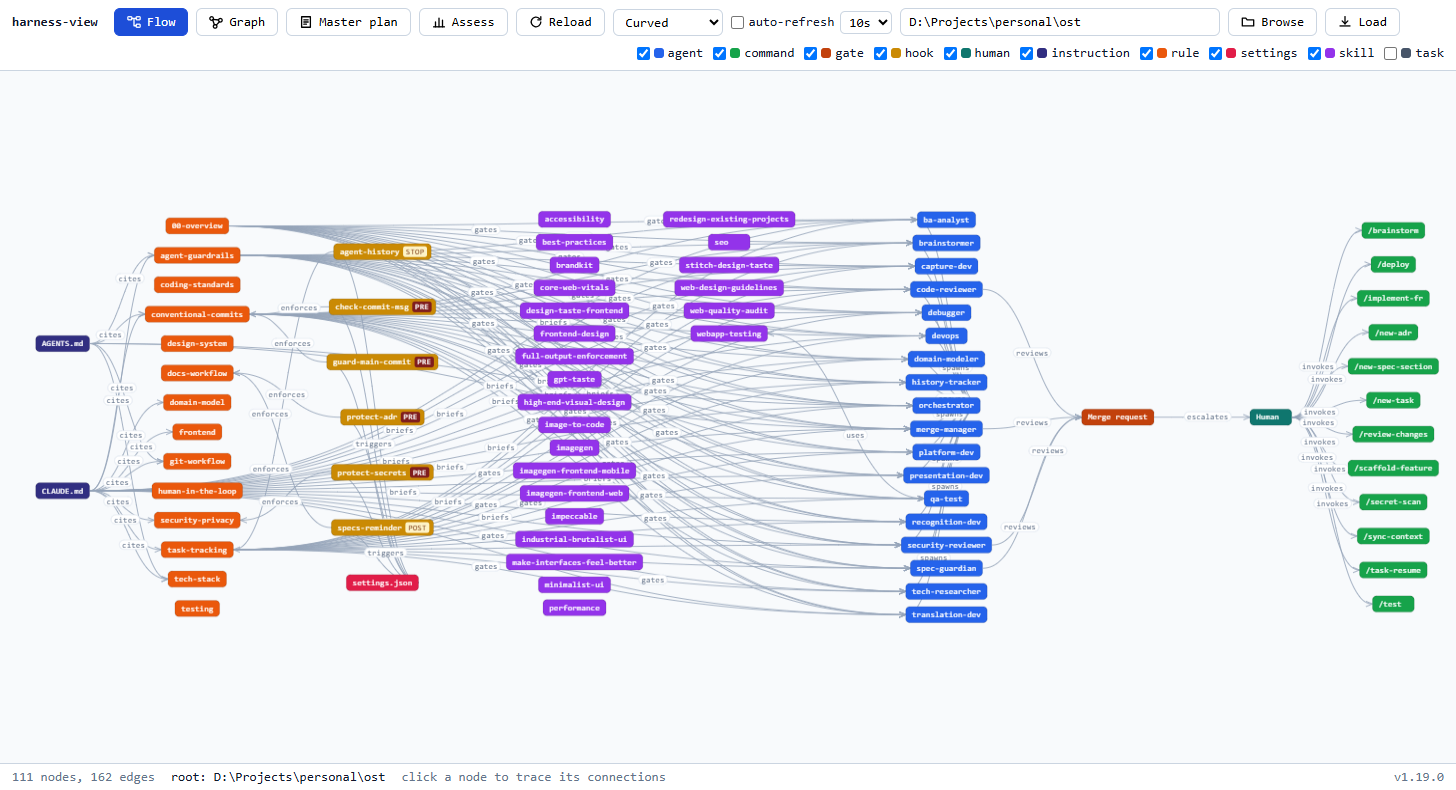
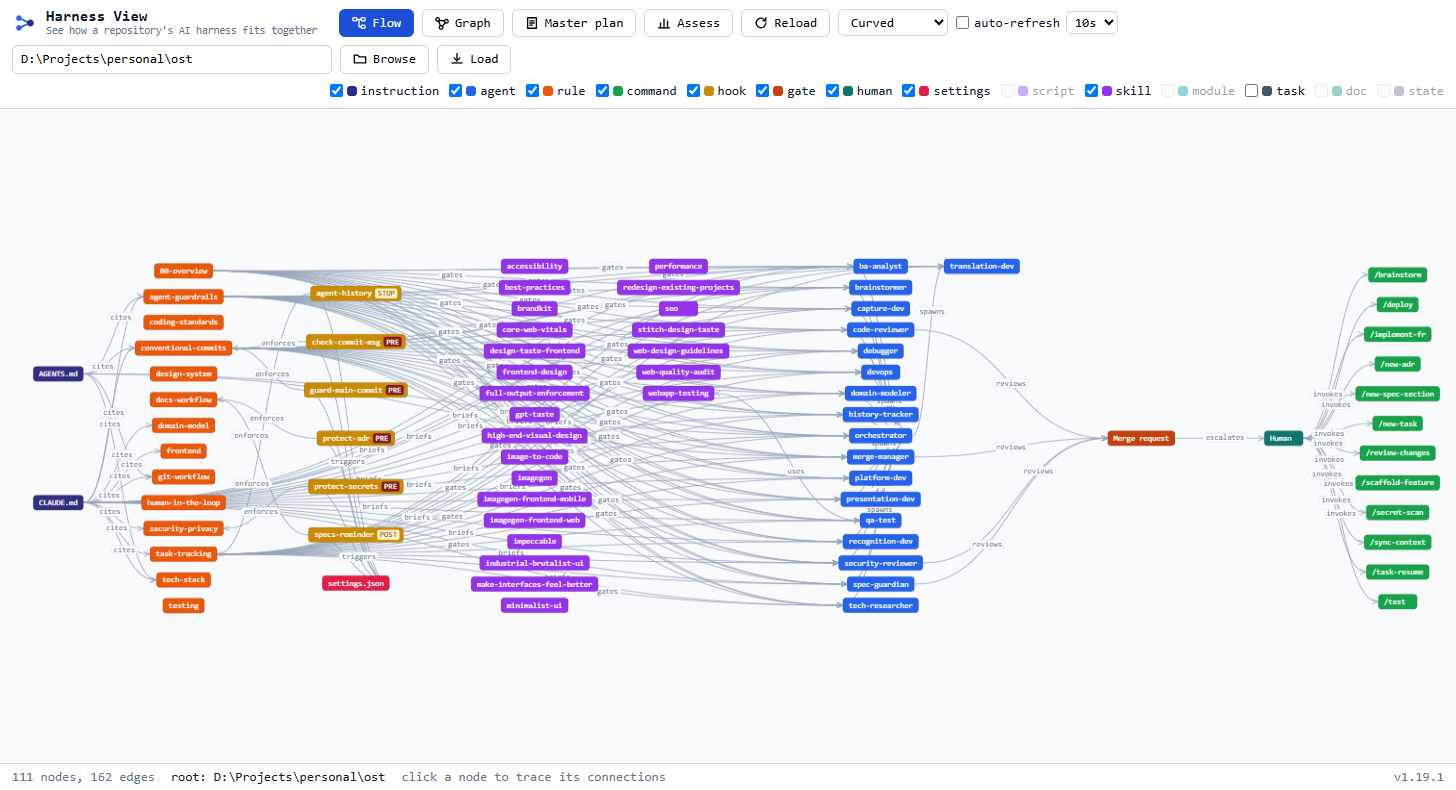
release: v1.19.1 (#39)
harness-view serve now starts when the default port is in a Windows reserved range. Viewer: one box per file, disabled-with-a-reason controls, dialogs that use their height, a completion popup that lists its triggers, and a named header.

diff --git a/tools/harness-view/CHANGELOG.md b/tools/harness-view/CHANGELOG.md
@@ -7,6 +7,35 @@ This tool is versioned and released together with the two skills under one repo 
 [`docs/RELEASING.md`](../../docs/RELEASING.md). Its `Cargo.toml` version is gate-enforced against
 that number, so the binary can never report a version the release does not carry.
 
+## [1.19.1] - 2026-08-24
+
+### Fixed
+
+- **`serve` starts on Windows.** It bound one hardcoded port and gave up. Windows reserves bands of
+  the ephemeral range for Hyper-V and WSL, and a bind inside one fails with `os error 10013` - an
+  ACCESS error, not an in-use error - so the default 7420 failed out of the box on a normal Windows
+  11 machine, with a message that read like a permissions problem, and left nothing listening. It
+  now falls back through a candidate list and prints the port it took. The browser is opened AFTER
+  the bind, since the port asked for is not always the port bound.
+- **Reading and editing a file are one box.** They were two, each claiming `flex: 1 1 auto` with its
+  own minimum height, so an editor nobody had opened still reserved 140px and pushed the file's own
+  content below a band of empty space - and Edit then opened a second framed box under the first,
+  showing the same file twice. Now one box: the file's name, a Preview/Code switch and Edit floating
+  at its top right, and Edit swaps the body in place. The file loads on open.
+- **A control that does not apply says so.** A repository with no board simply had no `task` filter,
+  and the Master plan button removed itself, so one repo showed a control and another showed a gap.
+  Both now appear disabled, with "not available for this project" on hover.
+- **A long list uses the dialog it is in.** `tools (44)` scrolled inside a hardcoded 210px with
+  roughly 200px of dialog empty beneath it.
+- **The completion popup lists its own triggers** - `@` anything, `` ` `` a rule or agent, `/` a
+  command, `docs/` a file path - pinned, so the row explaining how to open the list is not itself
+  below the list it explains.
+
+### Changed
+
+- The header carries a mark, the name **Harness View**, and one line saying what the tool is for.
+  `harness-view` in bold monospace read as a command someone had pasted into the toolbar.
+
 ## [1.19.0] - 2026-08-24
 
 ### Added

diff --git a/plugins/codex/spec-builder/skills/spec-builder/SKILL.md b/plugins/codex/spec-builder/skills/spec-builder/SKILL.md
@@ -1,6 +1,6 @@
 ---
 name: spec-builder
-version: 1.19.0
+version: 1.19.1
 description: Build the requirements contract for a project - a selective set of numbered BA spec sections under docs/specs/ with stable IDs (FR/NFR/BR/UC/US/DS/DT), acceptance criteria, and grep-verifiable traceability. The core (overview, glossary, FRs, NFRs, open issues, revision history, index) always; stakeholders, business flows, access control, data model, integrations, UI wireframes, feasibility, and a design-system appendix when selected. Do NOT use it to digest documents into a knowledge base, to build the .claude agent harness (that is harness-bootstrap), or to write code or ADRs. Works from any raw input - an idea, meeting notes, a transcript, a PRD, legacy docs, or a codebase - in the user's language. Use this WHENEVER the user wants requirements written, structured, or standardized - "build specs", "tạo specs", "viết tài liệu phân tích yêu cầu", "要件定義を作成して" - and their equivalents in any language. It never invents a requirement; anything unstated becomes a flagged open issue instead of a guess.
 allowed-tools: Bash(python:*), Bash(python3:*), Read, Write, Edit, Grep, Glob, AskUserQuestion, Agent
 ---

diff --git a/plugins/spec-builder/skills/spec-builder/SKILL.md b/plugins/spec-builder/skills/spec-builder/SKILL.md
@@ -1,6 +1,6 @@
 ---
 name: spec-builder
-version: 1.19.0
+version: 1.19.1
 description: Build the requirements contract for a project - a selective set of numbered BA spec sections under docs/specs/ with stable IDs (FR/NFR/BR/UC/US/DS/DT), acceptance criteria, and grep-verifiable traceability. The core (overview, glossary, FRs, NFRs, open issues, revision history, index) always; stakeholders, business flows, access control, data model, integrations, UI wireframes, feasibility, and a design-system appendix when selected. Do NOT use it to digest documents into a knowledge base, to build the .claude agent harness (that is harness-bootstrap), or to write code or ADRs. Works from any raw input - an idea, meeting notes, a transcript, a PRD, legacy docs, or a codebase - in the user's language. Use this WHENEVER the user wants requirements written, structured, or standardized - "build specs", "tạo specs", "viết tài liệu phân tích yêu cầu", "要件定義を作成して" - and their equivalents in any language. It never invents a requirement; anything unstated becomes a flagged open issue instead of a guess.
 allowed-tools: Bash(python:*), Bash(python3:*), Read, Write, Edit, Grep, Glob, AskUserQuestion, Agent
 ---

diff --git a/spec-builder/SKILL.md b/spec-builder/SKILL.md
@@ -1,6 +1,6 @@
 ---
 name: spec-builder
-version: 1.19.0
+version: 1.19.1
 description: Build the requirements contract for a project - a selective set of numbered BA spec sections under docs/specs/ with stable IDs (FR/NFR/BR/UC/US/DS/DT), acceptance criteria, and grep-verifiable traceability. The core (overview, glossary, FRs, NFRs, open issues, revision history, index) always; stakeholders, business flows, access control, data model, integrations, UI wireframes, feasibility, and a design-system appendix when selected. Do NOT use it to digest documents into a knowledge base, to build the .claude agent harness (that is harness-bootstrap), or to write code or ADRs. Works from any raw input - an idea, meeting notes, a transcript, a PRD, legacy docs, or a codebase - in the user's language. Use this WHENEVER the user wants requirements written, structured, or standardized - "build specs", "tạo specs", "viết tài liệu phân tích yêu cầu", "要件定義を作成して" - and their equivalents in any language. It never invents a requirement; anything unstated becomes a flagged open issue instead of a guess.
 allowed-tools: Bash(python:*), Bash(python3:*), Read, Write, Edit, Grep, Glob, AskUserQuestion, Agent
 ---

diff --git a/harness-bootstrap/SKILL.md b/harness-bootstrap/SKILL.md
@@ -1,6 +1,6 @@
 ---
 name: harness-bootstrap
-version: 1.19.0
+version: 1.19.1
 description: Bootstraps or standardizes the complete AI-agent harness for a repo - analyzes the existing source first, then generates the .claude folder (agents with explicit model/effort/tool budgets, path-scoped rules, commands, hooks, settings.json), the docs tree (specs/requirements/architecture/tasks/context), and AGENTS.md + CLAUDE.md, so the repo runs under orchestrator-driven task control. Also runs in a read-only audit mode that builds an audit control plane beside untouched source. Use when the user asks to "set up base", "thiet lap base coding", "chuan hoa claude folder", "chuan hoa source thanh claude ready", "khoi tao workspace cho AI agents", "set up agents for this repo", or adopts a project that should follow the standard structure.
 allowed-tools: Bash(python:*), Bash(python3:*), Bash(git:*), Read, Write, Edit, Grep, Glob, AskUserQuestion, Agent, WebSearch
 ---

diff --git a/plugins/codex/harness-bootstrap/skills/harness-bootstrap/SKILL.md b/plugins/codex/harness-bootstrap/skills/harness-bootstrap/SKILL.md
@@ -1,6 +1,6 @@
 ---
 name: harness-bootstrap
-version: 1.19.0
+version: 1.19.1
 description: Bootstraps or standardizes the complete AI-agent harness for a repo - analyzes the existing source first, then generates the .claude folder (agents with explicit model/effort/tool budgets, path-scoped rules, commands, hooks, settings.json), the docs tree (specs/requirements/architecture/tasks/context), and AGENTS.md + CLAUDE.md, so the repo runs under orchestrator-driven task control. Also runs in a read-only audit mode that builds an audit control plane beside untouched source. Use when the user asks to "set up base", "thiet lap base coding", "chuan hoa claude folder", "chuan hoa source thanh claude ready", "khoi tao workspace cho AI agents", "set up agents for this repo", or adopts a project that should follow the standard structure.
 allowed-tools: Bash(python:*), Bash(python3:*), Bash(git:*), Read, Write, Edit, Grep, Glob, AskUserQuestion, Agent, WebSearch
 ---

diff --git a/plugins/harness-bootstrap/skills/harness-bootstrap/SKILL.md b/plugins/harness-bootstrap/skills/harness-bootstrap/SKILL.md
@@ -1,6 +1,6 @@
 ---
 name: harness-bootstrap
-version: 1.19.0
+version: 1.19.1
 description: Bootstraps or standardizes the complete AI-agent harness for a repo - analyzes the existing source first, then generates the .claude folder (agents with explicit model/effort/tool budgets, path-scoped rules, commands, hooks, settings.json), the docs tree (specs/requirements/architecture/tasks/context), and AGENTS.md + CLAUDE.md, so the repo runs under orchestrator-driven task control. Also runs in a read-only audit mode that builds an audit control plane beside untouched source. Use when the user asks to "set up base", "thiet lap base coding", "chuan hoa claude folder", "chuan hoa source thanh claude ready", "khoi tao workspace cho AI agents", "set up agents for this repo", or adopts a project that should follow the standard structure.
 allowed-tools: Bash(python:*), Bash(python3:*), Bash(git:*), Read, Write, Edit, Grep, Glob, AskUserQuestion, Agent, WebSearch
 ---

diff --git a/CHANGELOG.md b/CHANGELOG.md
@@ -28,6 +28,14 @@ catalogue by category. The landing page stops breaking lines with room to spare,
 list into questions bound to their answers, documents all eight post-bootstrap tuning commands,
 and gains Claude Code, Codex and Cursor marks.
 
+## v1.19.1
+
+`harness-view serve` now starts on Windows machines whose default port sits in a Hyper-V/WSL
+reserved range. In the viewer, reading and editing a file share one box instead of two stacked
+frames with empty space between them, controls that do not apply to a repository say so rather than
+disappearing, long dialog lists use the height they are given, the completion popup lists its own
+triggers, and the header carries a name and a mark.
+
 ## v1.19.0
 
 A bar for what earns a task - agreed with the user, few and large - enforced by a new blocking hook

diff --git a/harness-bootstrap/CHANGELOG.md b/harness-bootstrap/CHANGELOG.md
@@ -6,6 +6,11 @@ Format: [Keep a Changelog](https://keepachangelog.com/en/1.1.0/). Versioning: [S
 This skill is released together with `spec-builder` under one repo version - see
 [`docs/RELEASING.md`](../docs/RELEASING.md).
 
+## [1.19.1] - 2026-08-24
+
+No change to the skill. The version moves with `harness-view`, which fixes a `serve` that could not
+start on Windows and reworks the viewer's file panel, filters and dialogs.
+
 ## [1.19.0] - 2026-08-24
 
 ### Added

diff --git a/spec-builder/CHANGELOG.md b/spec-builder/CHANGELOG.md
@@ -6,6 +6,10 @@ Format: [Keep a Changelog](https://keepachangelog.com/en/1.1.0/). Versioning: [S
 This skill is released together with `harness-bootstrap` under one repo version - see
 [`docs/RELEASING.md`](../docs/RELEASING.md).
 
+## [1.19.1] - 2026-08-24
+
+No functional change. The version moves with `harness-bootstrap`.
+
 ## [1.19.0] - 2026-08-24
 
 No functional change. The version moves with `harness-bootstrap`.
